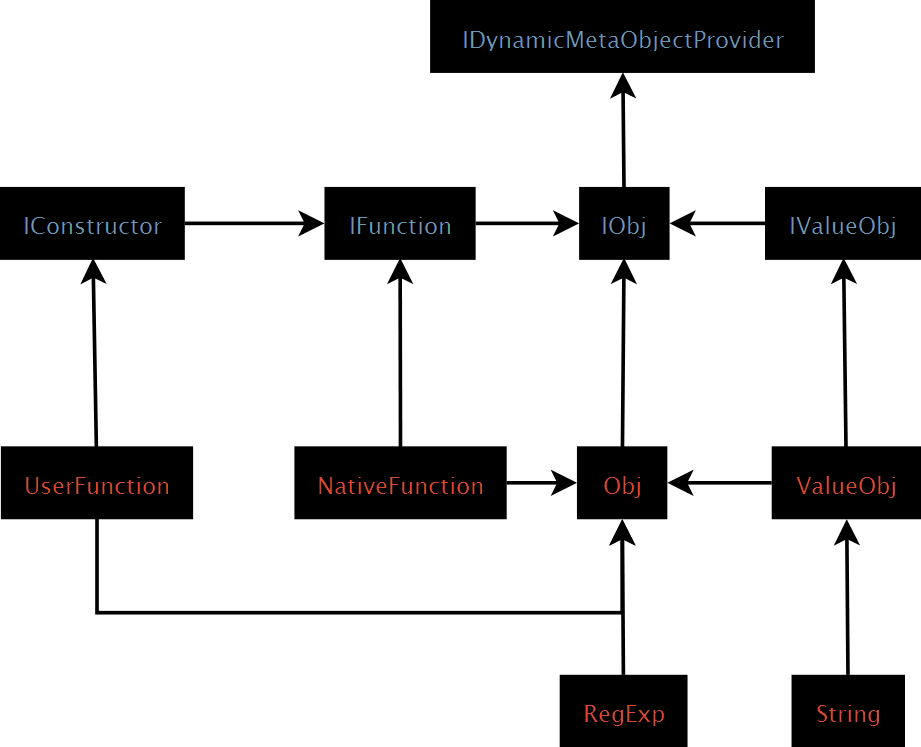
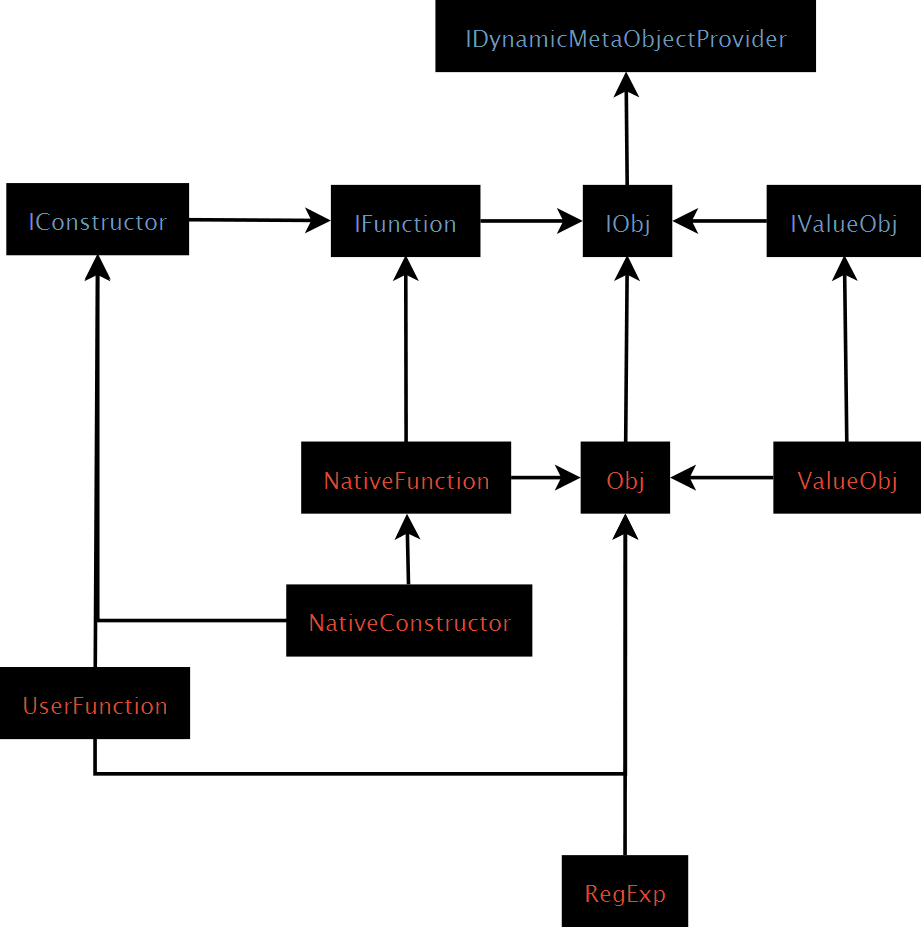
Added new IConstructor interface that allows splitting up IFunction into two interfaces: One for [[Call]] and one for [[Construct]] and [[HasInstance]]. Also uppdated iobj-inheritance diagram again

Changed region(s): [[0.0, 0.0, 1.0, 1.0]]

diff --git a/IronJS/Runtime/Js/IConstructor.cs b/IronJS/Runtime/Js/IConstructor.cs
@@ -1,0 +1,16 @@
+using System.Reflection;
+
+namespace IronJS.Runtime.Js
+{
+    interface IConstructor : IFunction
+    {
+        IObj Construct(object[] args);  // [[Construct]]
+        bool HasInstance(object obj);   // [[HasInstance]]
+    }
+
+    static public class IConstructorMethods
+    {
+        static public readonly MethodInfo MiConstruct = typeof(IFunction).GetMethod("Construct");
+        static public readonly MethodInfo MiHasInstance = typeof(IFunction).GetMethod("HasInstance");
+    }
+}
